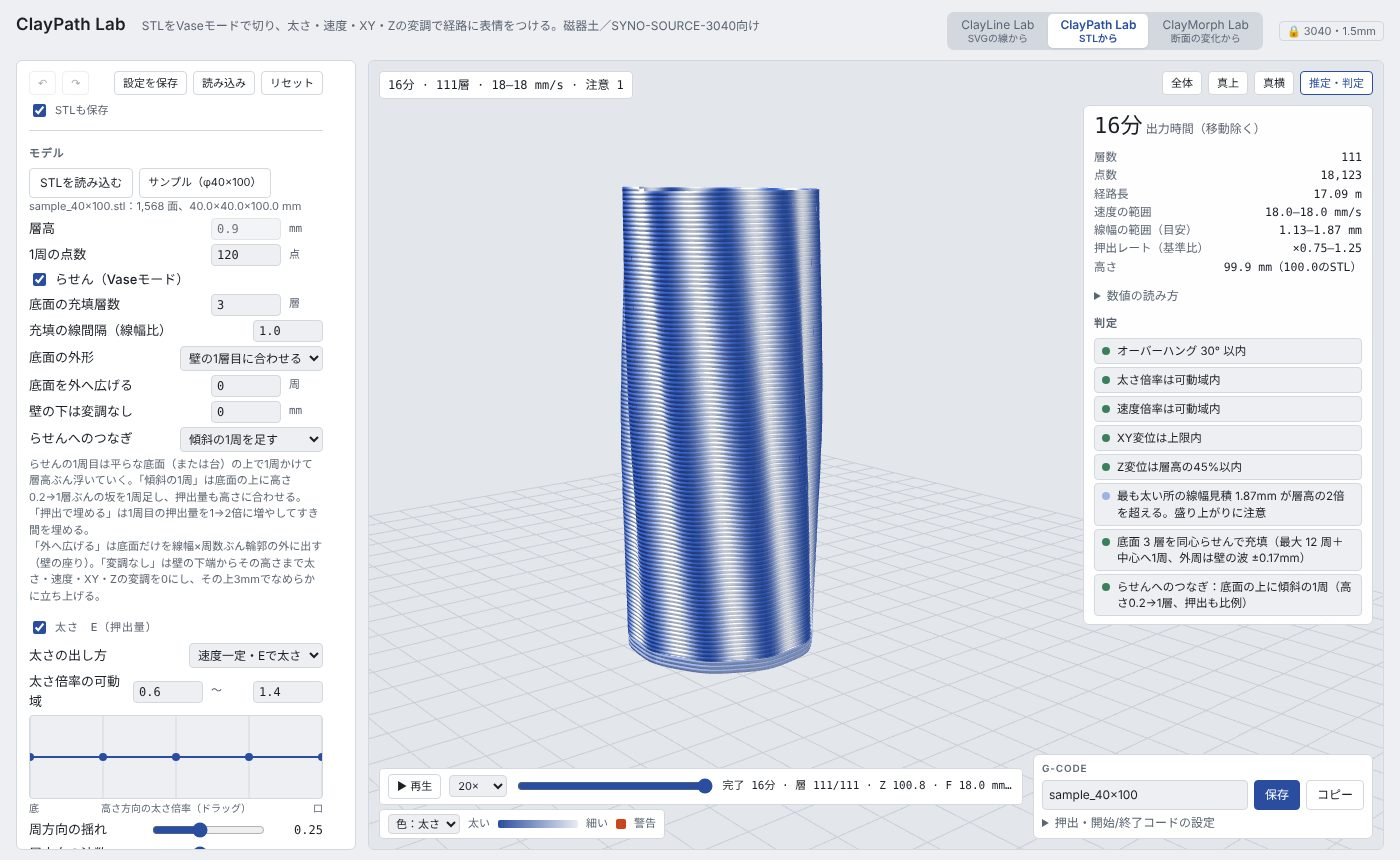
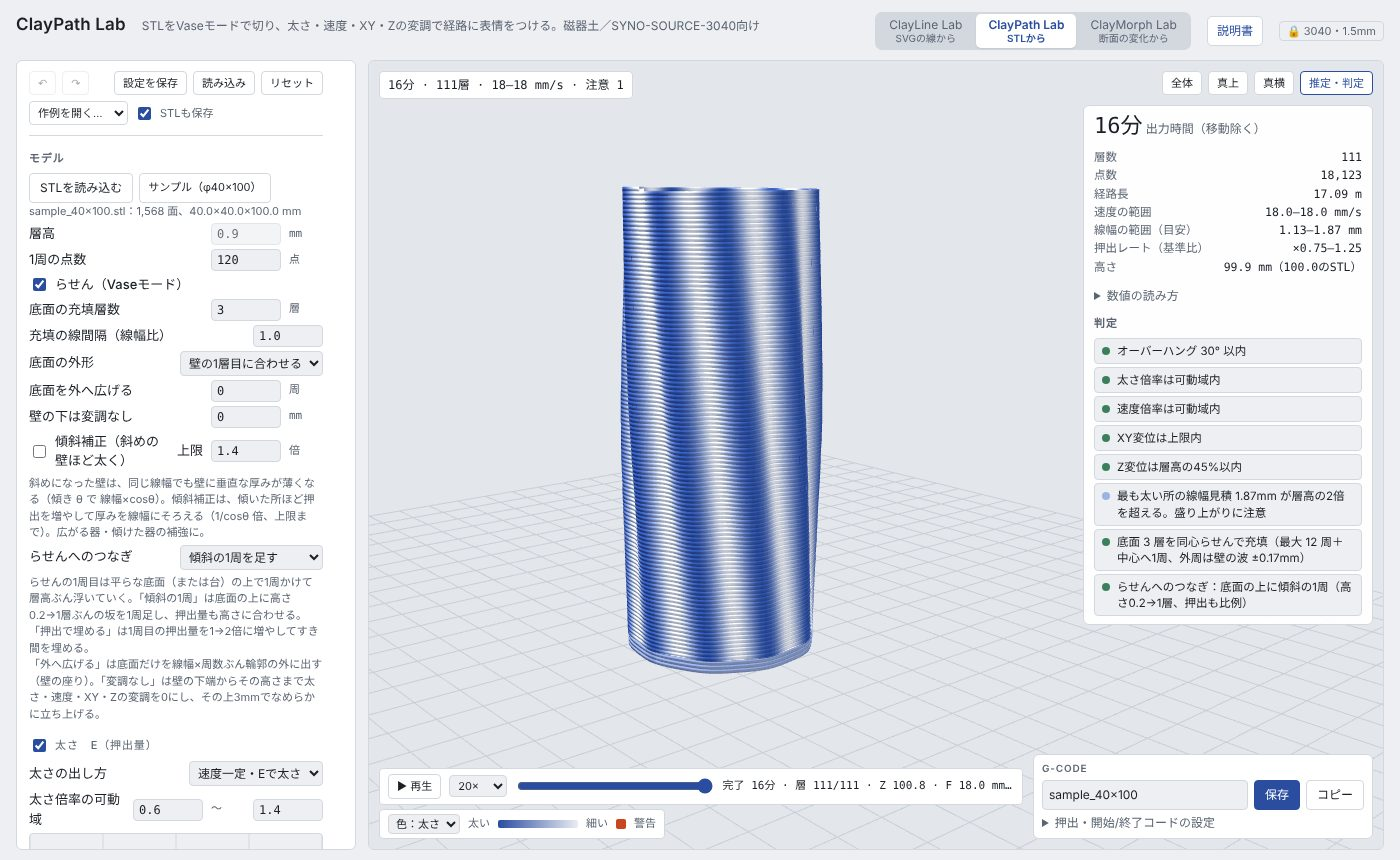
Manuals: feature table, new screenshots, templates, bump and rim images
docs/README.md gains a feature-by-tool table; common.md describes the 説明書
button, the 作例 menu and shows the panel's top buttons; ClayLine / ClayPath /
ClayMorph pages mention the examples, settings-file contents and show the
bump and rim panels and the six ClayMorph examples. Screenshots retaken.
Also: in ClayPath the rim's unused rows (waves, spout width/out) are now hidden.

Claude-Session: https://claude.ai/code/session_01YFcddbFFNj4iP4whKCfcP1

Changed region(s): [[0.0, 0.1209, 0.2457, 0.9977], [0.6143, 0.0, 0.9214, 0.0605]]

diff --git a/standalone/claymorph-lab.html b/standalone/claymorph-lab.html
@@ -616,7 +616,7 @@ function html(){ return `
   <div class="row"><label for="rimZone">変化させる高さ（0＝自動）</label><input id="rimZone" type="number" step="1" min="0" max="300" value="0"><span class="unit">mm</span></div>
   <div class="note" id="rimInfo"></div>
   <div class="note">口から「変化させる高さ」ぶん下までのあいだで、層の厚みを周方向に少しずつ変えて縁を傾ける（層が平らでなくなる）。高さの差が大きいほど、変化させる高さも長く必要（自動では層の厚みの変化が ±40% 以内になる長さ）。斜め・波は元の高さから±この値、注ぎ口は一か所だけこの値（マイナスで低くなる）。押出は層の厚みに合わせて増減する。</div>`; }
-function css(){ const st=document.createElement('style'); st.textContent='.rimprev{display:block;width:100%;height:70px;border:1px solid var(--line);border-radius:4px;background:var(--bg);margin-top:4px}'; document.head.appendChild(st); }
+function css(){ const st=document.createElement('style'); st.textContent='#rimSec .row[hidden]{display:none}.rimprev{display:block;width:100%;height:70px;border:1px solid var(--line);border-radius:4px;background:var(--bg);margin-top:4px}'; document.head.appendChild(st); }
 function readUI(){ for(const [id,k] of Object.entries(IDS)){ const el=$(id); if(!el) continue; S[k]= el.type==='checkbox'? el.checked : el.tagName==='SELECT'? el.value : +el.value; } }
 function writeUI(){ for(const [id,k] of Object.entries(IDS)){ const el=$(id); if(!el) continue; if(el.type==='checkbox') el.checked=!!S[k]; else el.value=S[k]; const v=$(id+'V'); if(v) v.textContent= (k==='amp'||k==='out')? (+S[k]).toFixed(1) : String(S[k]); }
   const sh=(id,on)=>{ const e=$(id); if(e) e.hidden=!on; }; sh('rimNRow',S.kind==='wave'); sh('rimWidthRow',S.kind==='spout'); sh('rimOutRow',S.kind==='spout'); }

diff --git a/standalone/claypath-lab.html b/standalone/claypath-lab.html
@@ -563,7 +563,7 @@ function html(){ return `
   <div class="row"><label for="rimZone">変化させる高さ（0＝自動）</label><input id="rimZone" type="number" step="1" min="0" max="300" value="0"><span class="unit">mm</span></div>
   <div class="note" id="rimInfo"></div>
   <div class="note">口から「変化させる高さ」ぶん下までのあいだで、層の厚みを周方向に少しずつ変えて縁を傾ける（層が平らでなくなる）。高さの差が大きいほど、変化させる高さも長く必要（自動では層の厚みの変化が ±40% 以内になる長さ）。斜め・波は元の高さから±この値、注ぎ口は一か所だけこの値（マイナスで低くなる）。押出は層の厚みに合わせて増減する。</div>`; }
-function css(){ const st=document.createElement('style'); st.textContent='.rimprev{display:block;width:100%;height:70px;border:1px solid var(--line);border-radius:4px;background:var(--bg);margin-top:4px}'; document.head.appendChild(st); }
+function css(){ const st=document.createElement('style'); st.textContent='#rimSec .row[hidden]{display:none}.rimprev{display:block;width:100%;height:70px;border:1px solid var(--line);border-radius:4px;background:var(--bg);margin-top:4px}'; document.head.appendChild(st); }
 function readUI(){ for(const [id,k] of Object.entries(IDS)){ const el=$(id); if(!el) continue; S[k]= el.type==='checkbox'? el.checked : el.tagName==='SELECT'? el.value : +el.value; } }
 function writeUI(){ for(const [id,k] of Object.entries(IDS)){ const el=$(id); if(!el) continue; if(el.type==='checkbox') el.checked=!!S[k]; else el.value=S[k]; const v=$(id+'V'); if(v) v.textContent= (k==='amp'||k==='out')? (+S[k]).toFixed(1) : String(S[k]); }
   const sh=(id,on)=>{ const e=$(id); if(e) e.hidden=!on; }; sh('rimNRow',S.kind==='wave'); sh('rimWidthRow',S.kind==='spout'); sh('rimOutRow',S.kind==='spout'); }

diff --git a/shared/rim.js b/shared/rim.js
@@ -24,7 +24,7 @@ function html(){ return `
   <div class="row"><label for="rimZone">変化させる高さ（0＝自動）</label><input id="rimZone" type="number" step="1" min="0" max="300" value="0"><span class="unit">mm</span></div>
   <div class="note" id="rimInfo"></div>
   <div class="note">口から「変化させる高さ」ぶん下までのあいだで、層の厚みを周方向に少しずつ変えて縁を傾ける（層が平らでなくなる）。高さの差が大きいほど、変化させる高さも長く必要（自動では層の厚みの変化が ±40% 以内になる長さ）。斜め・波は元の高さから±この値、注ぎ口は一か所だけこの値（マイナスで低くなる）。押出は層の厚みに合わせて増減する。</div>`; }
-function css(){ const st=document.createElement('style'); st.textContent='.rimprev{display:block;width:100%;height:70px;border:1px solid var(--line);border-radius:4px;background:var(--bg);margin-top:4px}'; document.head.appendChild(st); }
+function css(){ const st=document.createElement('style'); st.textContent='#rimSec .row[hidden]{display:none}.rimprev{display:block;width:100%;height:70px;border:1px solid var(--line);border-radius:4px;background:var(--bg);margin-top:4px}'; document.head.appendChild(st); }
 function readUI(){ for(const [id,k] of Object.entries(IDS)){ const el=$(id); if(!el) continue; S[k]= el.type==='checkbox'? el.checked : el.tagName==='SELECT'? el.value : +el.value; } }
 function writeUI(){ for(const [id,k] of Object.entries(IDS)){ const el=$(id); if(!el) continue; if(el.type==='checkbox') el.checked=!!S[k]; else el.value=S[k]; const v=$(id+'V'); if(v) v.textContent= (k==='amp'||k==='out')? (+S[k]).toFixed(1) : String(S[k]); }
   const sh=(id,on)=>{ const e=$(id); if(e) e.hidden=!on; }; sh('rimNRow',S.kind==='wave'); sh('rimWidthRow',S.kind==='spout'); sh('rimOutRow',S.kind==='spout'); }

diff --git a/docs/claymorph.md b/docs/claymorph.md
@@ -8,11 +8,18 @@
 
 ## 基本の手順
 
+0. まず「作例を開く…」から選ぶと、断面・輪郭・口の形などの組み合わせ方がつかめる
 1. 「下の断面」「上の断面」で形を選ぶ（円・花びら・星・多角形・楕円、または SVG）
 2. 「高さ方向」で高さと最大径を決める
 3. 「横から見た輪郭」で、正面から見た壁の線を点のドラッグで整える
 4. 「形の変化」のカーブで、下の形から上の形へどの高さで変わるかを決める。必要なら「ねじれ」を足す
 5. 「推定・判定」でオーバーハング（赤）を確かめて、G-code を保存する
+
+## 作例
+
+「作例を開く…」の 6 つ（左上から）：花びらの花器、ねじれた星のカップ、注ぎ口のピッチャー、傾いた一輪挿し、波打つ口のボウル、ドット模様のタンブラー。開いたあと自由に変えられ、⌘Z で元に戻せます。
+
+![ClayMorph Lab の作例](img/claymorph-templates.jpg)
 
 ## 断面（下・上）
 
@@ -80,7 +87,7 @@
 
 ## 設定の保存
 
-「設定を保存」で、断面・輪郭（左右の点）・カーブ・トグル・読み込んだ SVG の輪郭を 1 つの .json に保存します。「読み込み」で開けば同じ G-code が出る状態に戻ります。「リセット」は読み込んだ SVG を残したまま設定を最初の値に戻します。
+「設定を保存」で、断面・輪郭（左右の点）・カーブ・トグル・画像のバンプ（画像込み）・口の形・読み込んだ SVG の輪郭を 1 つの .json に保存します。「読み込み」で開けば同じ G-code が出る状態に戻ります。「リセット」は読み込んだ SVG を残したまま設定を最初の値に戻します。
 
 ## 形を STL で保存
 

diff --git a/docs/README.md b/docs/README.md
@@ -14,6 +14,23 @@
 2. **Path**：与えられた形（STL）を、経路の変調（太さ・速度・XY・Z）で加工する。「形」と「経路」を分けて考える
 3. **Morph**：断面と輪郭の組み合わせで形そのものを生み出す
 
+## 機能の一覧
+
+| 機能 | ClayLine | ClayPath | ClayMorph | 説明 |
+|---|:-:|:-:|:-:|---|
+| 作例を開く | ○ | ○ | ○ | [共通の使い方](common.md#設定の保存読み込み取り消し) |
+| 取り消し・やり直し（⌘Z） | ○ | ○ | ○ | 同上 |
+| 設定の保存・読み込み（素材ごと） | ○（SVG） | ○（STL・画像） | ○（SVG・画像） | 同上 |
+| 太さ・速度・XY・Z の変調 | 太さ・速度 | ○ | ○ | [ClayPath](claypath.md#4-つの変調) |
+| 画像のバンプ（白黒の画像で凹凸） | — | ○ | ○ | [ClayPath](claypath.md#画像のバンプ白黒の画像で凹凸) |
+| 口の形（斜め・波・注ぎ口） | — | ○ | ○ | [ClayPath](claypath.md#口の形斜め波注ぎ口) |
+| 傾斜補正（斜めの壁ほど太く） | — | ○ | ○ | [ClayPath](claypath.md#モデル) |
+| 横から見た輪郭・左右非対称 | — | — | ○ | [ClayMorph](claymorph.md#横から見た輪郭) |
+| 閉じた立体の STL 書き出し | — | — | ○ | [共通の使い方](common.md#形を-stl-で保存) |
+| 機械の設定のロック・教員モード | ○ | ○ | ○ | [共通の使い方](common.md#機械の設定と教員モード) |
+
+各ツールの画面右上の「説明書」ボタンから、そのツールの説明書が開きます。
+
 ## まず読むところ
 
 - [共通の使い方](common.md)：機械の設定と教員モード、印刷までの流れ、判定の読み方、設定の保存と取り消し、自分の機械に合わせる方法

diff --git a/docs/common.md b/docs/common.md
@@ -18,8 +18,8 @@
 
 | 場所 | 内容 |
 |---|---|
-| 上 | ツールの切り替えタブ（Line → Path → Morph）と、機械の表示（🔒 3040・1.5mm） |
-| 左のパネル | 形と経路の設定。一番上に ↶ ↷（取り消し・やり直し）、設定を保存・読み込み・リセット |
+| 上 | ツールの切り替えタブ（Line → Path → Morph）、「説明書」ボタン（今のツールの説明書が開く）、機械の表示（🔒 3040・1.5mm） |
+| 左のパネル | 形と経路の設定。一番上に ↶ ↷（取り消し・やり直し）、設定を保存・読み込み・リセット、「作例を開く…」 |
 | 中央 | 3D プレビュー。ドラッグで回転、右ドラッグ（または Shift＋ドラッグ）で移動、ホイールで拡大縮小。「全体」「真上」「真横」で視点を戻す |
 | 右上「推定・判定」 | 出力時間・経路長などの見積もりと、印刷前に確かめる判定（緑・青・赤） |
 | 下「再生」 | ノズルの動きを時間どおりに再生。バーを動かすと途中の層まで表示できる（底面の確認に便利） |
@@ -99,6 +99,8 @@ ClayMorph Lab では、G-code 欄の「STL」で、器の形を **1 つの閉じ
 ## 設定の保存・読み込み・取り消し
 
 3 つとも左パネルの一番上にボタンがあります。
+
+![左パネル上のボタン（ClayPath Lab）](img/setbar.png)
 
 | 操作 | ボタン | キー |
 |---|---|---|
